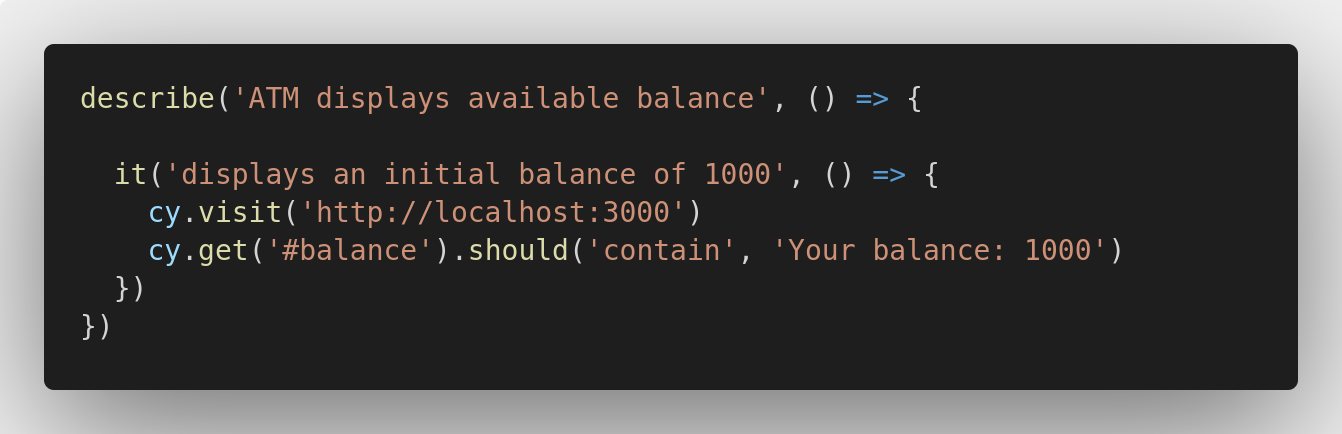
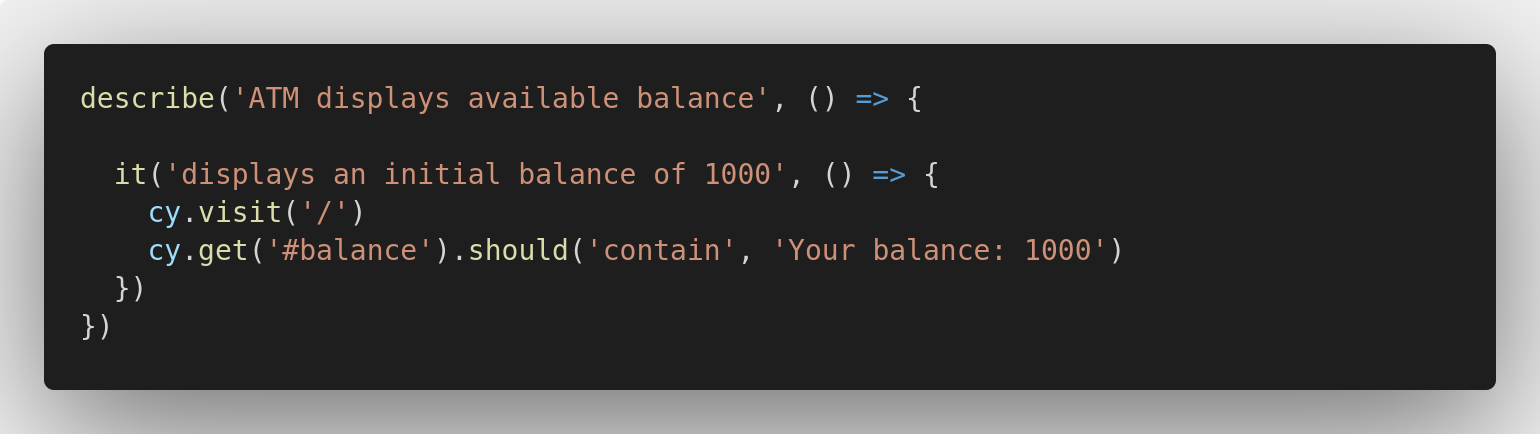
digital_atm chapter 6

diff --git a/code_challenges/atm_client/material/02_setting_up.md b/code_challenges/atm_client/material/02_setting_up.md
@@ -1,15 +1,16 @@
 For this exercise we have been given a pre-scaffolded application that features a digital ATM. However, the ATM is broken and has no functionality. Let's put our minds to work and get this poor machine repaired!  
 
 Head to the [provided repo](url), fork it, and clone it down. 
-
-```$ git clone [url]```
+```
+$ git clone [url]
+```
 
 ```cd``` into the new folder and hit ```$ yarn```
 
 If you like, you can spin up the application to take a look at the broken ATM:
-
-```$ yarn start```
-
+```
+$ yarn start
+```
 As you see, there's not really anything going on. 
 
 ## Cypress
@@ -17,24 +18,43 @@ Before anything else, let's set up our testing environment.
 
 **Step 1:** Install cypress and save it as a development dependency:  
 
-```$ yarn add cypress --dev```  
+```
+$ yarn add cypress --dev
+```  
 
 **Step 2:** Once we are done with installation, we can launch cypress by:  
 
-```$ yarn run cypress open``` 
+```
+$ yarn run cypress open
+``` 
 
 This command will run a configuration script and add a bunch of example tests that can be a reference for you, and help you to get to know the various Cypress commands.  
 When you have examined them a bit more, go ahead and delete the examples folder. 
 
-**Step 3:** As for configuring the scripts and the server, there's a myriad of ways to set up our local server. We have found the ```start-server-and-test``` helper package to be a convenient solution, so let's add that to our development dependencies:  
+**Step 3:** Let’s also configure a default URL for Cypress to use, so we don’t have to specify this in our tests:
 
-```$ yarn add start-server-and-test --dev```  
+Inside `cypress.json`, add the following line to the empty object:
+
+```
+{
+  "baseUrl": "http://localhost:3000"
+}
+```
+
+**Step 4:** As for configuring the scripts and the server, there's a myriad of ways to set up our local server. We have found the ```start-server-and-test``` helper package to be a convenient solution, so let's add that to our development dependencies:  
+
+```
+$ yarn add start-server-and-test --dev
+```  
 
 Next, we need to go to our ```package.json``` and add the following lines to the ```scripts``` section: 
 ```
-"start:silent": "PORT=3000 BROWSER=none react-scripts start",
-"cy:open": "cypress open",
-"cypress": "start-server-and-test start:silent http://localhost:3000/ cy:open"
+"sript": {
+  //...
+  "start:silent": "PORT=3000 BROWSER=none react-scripts start",
+  "cy:open": "cypress open",
+  "cypress": "start-server-and-test start:silent http://localhost:3000/ cy:open"
+}
 ```
 You can add the lines anywhere inside the ```scripts``` object, just remember to end each line with a comma - except for the very last line!  
 

diff --git a/code_challenges/atm_client/material/06_the_sad_path.md b/code_challenges/atm_client/material/06_the_sad_path.md
@@ -8,3 +8,61 @@ The sad path is indeed a gloomy place!
 
 Yet, as new, aspiring developers, we need to get comfortable in this somber place, as it is a path we need to walk over and over again. 
 
+**Light your torches and let's head out.**
+
+## Writing conditionals
+Working on the sad path most often entails adding conditionals to your code:
+
+*If this is the case, do that.*
+
+*If this is not the case, then don't show this, but show that instead.*
+
+... And so forth. If you had any doubts, sad path revisions can of course be formulated as User Stories too!
+
+```
+As an ATM
+In order to avoid overdraft
+I should not make withdrawals if amount is higher than balance
+```
+
+With this, let's create a new test file and call it `atmSadPathFunctionality.feature.js`:
+
+**image: the_sad_path_01**
+
+As you may have guessed, in order to make these tests go green, we need to wrap our `withdraw` logic inside of an `if else` statement.
+
+If we rewrite the function into something like this, the tests should pass!
+
+**image: the_sad_path_02**
+
+**Splendid! First obstacle complete. Let's head further down the path..**
+
+Next up, we'll work on halting the transaction if `amount` is 0 or left empty.
+
+```
+As an ATM
+In order to avoid unnecessary transactions
+I should not make transactions if the amount evaluates to 0
+```
+
+Back in our sad path test file, we'll add two more test blocks:
+
+**image: the_sad_path_03**
+
+For this final obstacle, it's time to venture out on your own two legs; make those two tests pass!
+
+*Come back victories - or not at all!*
+
+.. Just kidding of course. If you need assistance, just reach out!
+
+When complete, run the entire test suite and watch all 10 tests light up in green saturation!  
+
+Well done. The functionalities used throughout this exercise are the very pillars to the realm of React, and mastering these is the first step in becoming a proficient React developer.  
+
+If you have time on your hands, I encourage you to go through the exercise again and try to accomplish as much as you can without checking the documentation!
+
+## Recap
+For good measure, let's just go over the concepts we worked with:
+- **States.** In order to be able to display dynamic content, we stored information inside states. 
+- **Handling Events**. In order to create interactivity, we created event listeners and event handlers. Based on user input, we make modifications to the states, enabling the dynamic flow.
+- **Props**. In order to let child components have access to the state values of a parent, we passed the value down as a prop. 

diff --git a/code_challenges/atm_client/material/04_transaction_functionalty.md b/code_challenges/atm_client/material/04_transaction_functionalty.md
@@ -37,7 +37,7 @@ Basically, every time the ```input field``` changes, we update the ```amount``` 
 
 Finally, since the value is of type ```string```, but we want to use it as a ```number``` in our future calculations, we are parsing the value with the ```Number()``` constructor. 
 
-### The ```withdraw``` function
+### The withdraw function
 Now that we have access to the amount, we can write our ```withdraw``` function. The logic itself is quite simple; we want to deduct ```amount``` from ```balance```.  
 However, we also need to build interactivity, which means that we need to update the ```balance``` state, and also add an event listener to the ```withdraw button``` that triggers the ```withdraw``` function.
 

diff --git a/code_challenges/atm_client/material/03_getting_started.md b/code_challenges/atm_client/material/03_getting_started.md
@@ -23,8 +23,9 @@ I would like the ATM to displays my available balance
 With the above User Story as our scope, let's start formulating our first test to later have its logic guide our implementation code. 
 
 Create a test file:  
-
-``` $ touch cypress/integration/atmDisplaysAvailableBalance.feature.js ```
+``` 
+$ touch cypress/integration/atmDisplaysAvailableBalance.feature.js 
+```
 
 And add a ```describe``` block:
 

diff --git a/code_challenges/atm_client/material/01_visualizing_the_atm.md b/code_challenges/atm_client/material/01_visualizing_the_atm.md
@@ -5,7 +5,7 @@ Let's revisit the ATM, but this we will be focusing on the visual aspect. You ha
 **Depending on where in the course this is, this should be revised**
 
 ## Learning objectives:
-- Storing data in a state
+- Storing information in a state
 - Create user event handlers
 - Modify the state based on user interaction
 - Pass down data to child components
